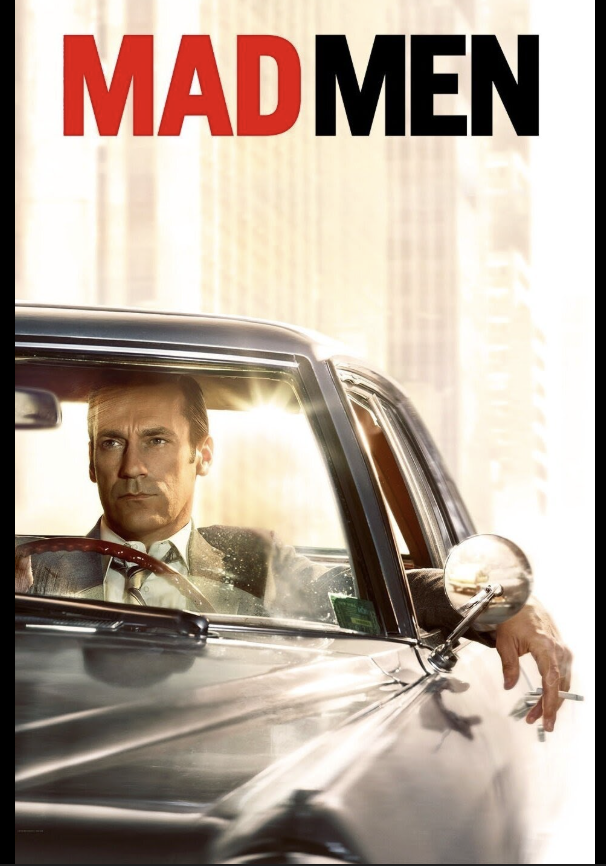
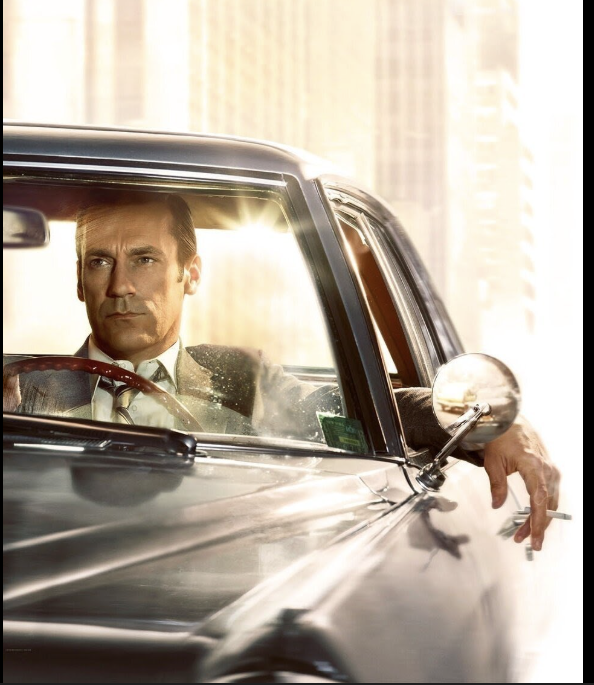
modified images, added footer

diff --git a/index.html b/index.html
@@ -20,6 +20,59 @@
         <h2>1999-2009</h2>
         <a href="#">Learn More</a>
       </header>
+
+      <footer>
+        <section class="grid">
+          <div class="grid-box">
+            <h3>More info on the rise of prestige TV dramas</h3>
+            <ul>
+              <li>
+                <a
+                  href="https://www.newyorker.com/magazine/2023/11/06/the-twilight-of-prestige-television"
+                  target="_blank"
+                  class="more-info-article"
+                  >Twilight of Prestige</a
+                >
+              </li>
+              <li>
+                <a
+                  href="https://www.theguardian.com/tv-and-radio/2023/jun/05/the-end-of-peak-television-has-the-era-of-prestige-tv-just-ground-to-a-halt"
+                  target="_blank"
+                  class="more-info-article"
+                  >End of peak TV</a
+                >
+              </li>
+              <li>
+                <a
+                  href="https://www.publicbooks.org/price-tag-tv-and-the-transformation-of-television-prestige/"
+                  target="_blank"
+                  class="more-info-article"
+                  >Transformation of Television</a
+                >
+              </li>
+            </ul>
+          </div>
+
+          <div class="grid-box">
+            <h3>About Me</h3>
+            <p>
+              Hi I’m Samina, currently residing in Ohio. As a kid, TV shows were
+              something I watched on occasion, but placed no importance on. As
+              an adult, prestige dramas elevated the TV game, and I quickly
+              became a fan! I’m captivated by thick plot lines and epic
+              cinematography, and love to discuss shows on a deeper level.
+            </p>
+          </div>
+
+          <div class="grid-box">
+            <h3>About This Website</h3>
+            <p>
+              This page was created as part of a project for SheCodes Responsive
+              to develop my coding skills.
+            </p>
+          </div>
+        </section>
+      </footer>
     </div>
   </body>
 </html>

diff --git a/src/styles.css b/src/styles.css
@@ -41,6 +41,36 @@ header a {
   border-radius: 3px;
   display: inline-block;
 }
+.more-info-article {
+  color: white;
+}
+footer ul {
+  list-style: none;
+  padding: 0;
+  margin: 0;
+}
+
+footer {
+  color: white;
+  opacity: 0.7;
+  background-image: linear-gradient(rgba(36, 39, 35, 0.7), rgba(0, 0, 0, 0.7)),
+    url("../images/madmen.png");
+  background-repeat: no-repeat;
+  background-size: cover;
+}
+
+section {
+  padding-top: 50px;
+  max-width: 1200px;
+  margin: 0 auto;
+}
+.grid {
+  display: grid;
+  grid-template-columns: 1fr 2fr 2fr;
+}
+.grid-box {
+  padding-left: 40px;
+}
 
 @media (max-width: 800px) {
   header {
